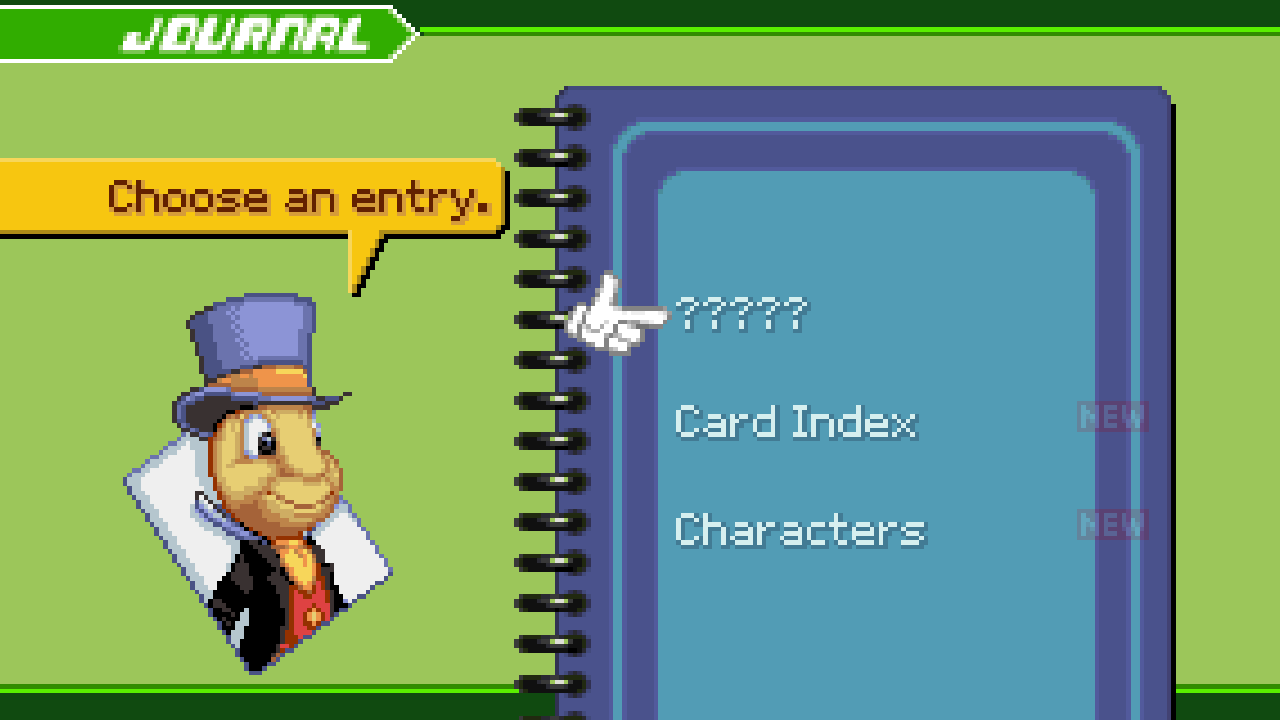
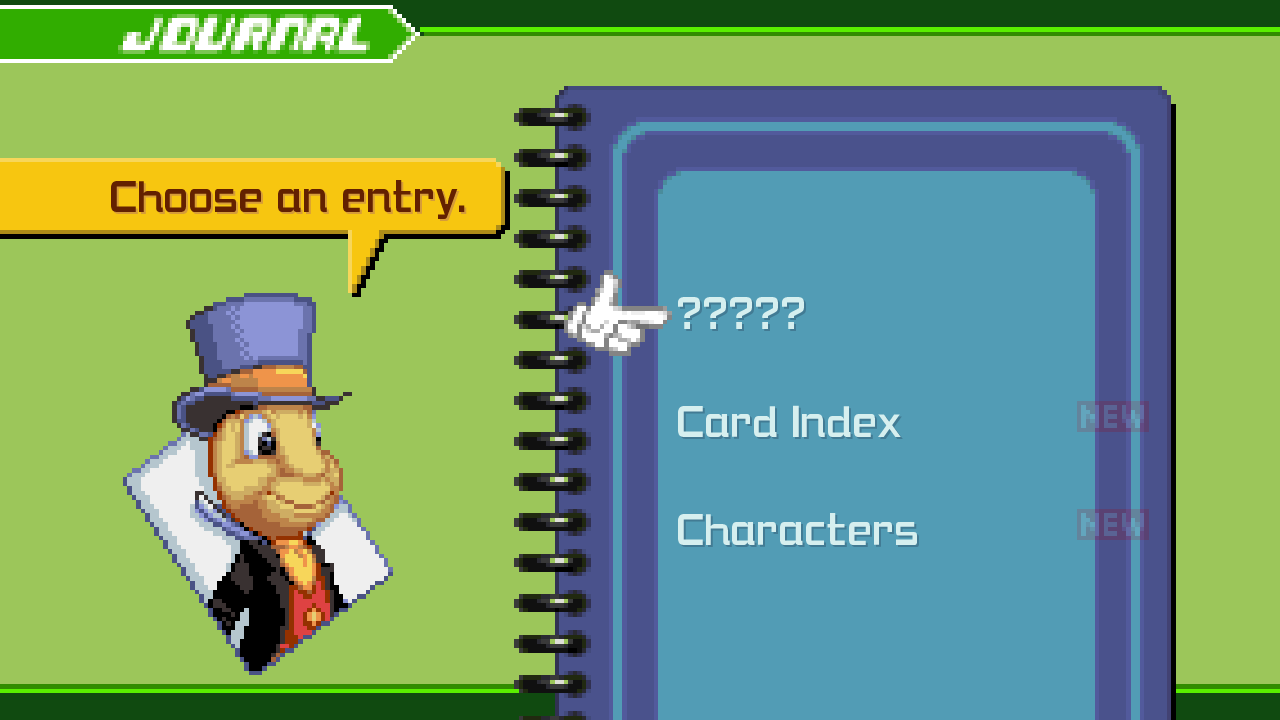
Verify supplied HD font faces and refresh README captures

diff --git a/port/tools/capture_hd_fonts.py b/port/tools/capture_hd_fonts.py
@@ -1,0 +1,39 @@
+"""Capture the actual menu/dialogue/subtitle faces in an isolated data folder."""
+import os
+from pathlib import Path
+import subprocess
+from datetime import datetime
+
+ROOT = Path(__file__).resolve().parents[2]
+import argparse
+parser = argparse.ArgumentParser(description=__doc__)
+parser.add_argument('--scenes', nargs='+', default=['deck', 'dialogue', 'subtitles'])
+args = parser.parse_args()
+work = ROOT / 'build/font-review' / datetime.now().strftime('%Y%m%d-%H%M%S')
+work.mkdir(parents=True)
+exe = ROOT / 'build/cx-eu/khcom.exe'
+for name, fixture, shots, end in (
+    ('deck', {'KHCOM_MODE': '300:room:10000,600:Mode_Deck'}, '800', 810),
+    ('status', {'KHCOM_MODE': '300:room:10000,600:mode_status'}, '800', 810),
+    ('journal', {'KHCOM_MODE': '300:room:10000,600:mode_jiminy'}, '800', 810),
+    ('worldcards', {'KHCOM_MODE': '300:room:10000,600:mode_worldinspect'}, '800', 810),
+    ('dialogue', {'KHCOM_MODE': '300:room:10000,600:mode_ms_top'}, '800,1000,1500', 1510),
+    ('subtitles', {'KHCOM_MOVIE': '1'}, '2700,2770,3330', 3340),
+):
+    if name not in args.scenes:
+        continue
+    data = work / name
+    data.mkdir()
+    # Use the package's bin/ layout with root assets via --data-dir.
+    import shutil
+    shutil.copytree(ROOT / 'port/assets/fonts', data / 'assets/fonts')
+    (data / 'kh_com.ini').write_text('config_version=2\nview_mode=4\nwindow_scale=4\nhd_text=1\nhd_hud=0\n')
+    env = {k: v for k, v in os.environ.items() if not k.startswith('KHCOM_')}
+    env.update(SDL_VIDEO_DRIVER='dummy', SDL_AUDIO_DRIVER='dummy', KHCOM_FAST='1',
+               KHCOM_OUTPUT_SHOT=shots, KHCOM_QUIT=str(end), **fixture)
+    subprocess.run([str(exe), '--data-dir', str(data), '--rom', str(ROOT / 'roms/B8CP.gba'),
+                    '--language', 'en'], cwd=data, env=env, check=True, timeout=120)
+    log = (data / 'kh_com.log').read_text(errors='replace')
+    selected = [line for line in log.splitlines() if 'HD text:' in line]
+    print(name, '\n'.join(selected))
+print(work)

diff --git a/port/src/port_hdtext.c b/port/src/port_hdtext.c
@@ -80,12 +80,14 @@ static void LoadCustomFont(void) {
 
         /* next to the executable, or in the data folder: the packaged game
            runs from bin/ with its assets at the root (--data-dir) */
-        SDL_snprintf(path, sizeof(path), "%s%s", base ? base : "", files[i]);
+        SDL_strlcpy(path, PortConfigPath(files[i]), sizeof(path));
         if (GetFileAttributesA(path) == INVALID_FILE_ATTRIBUTES)
-            SDL_strlcpy(path, PortConfigPath(files[i]), sizeof(path));
+            SDL_snprintf(path, sizeof(path), "%s%s", base ? base : "", files[i]);
         if (MultiByteToWideChar(CP_UTF8, 0, path, -1, wpath, 1024) > 0 && AddFontResourceExW(wpath, FR_PRIVATE, NULL) > 0) {
             sFace[i] = faces[i];
             PortLog("HD text: font %s", path);
+        } else {
+            PortLog("HD text: unable to load %s; using fallback", path);
         }
     }
 }
@@ -172,6 +174,14 @@ static HdFont* FontForScale(float scale, int style) {
     {
         const WCHAR* face = sFace[style == 2 ? 0 : style];
         f->font = FontWithCap(face, f->cap, scale, face[0] == L'S' ? FW_SEMIBOLD : FW_NORMAL);
+        {
+            WCHAR selected[128];
+            char actual[256];
+            SelectObject(sDc, f->font);
+            if (GetTextFaceW(sDc, 128, selected) > 0 &&
+                WideCharToMultiByte(CP_UTF8, 0, selected, -1, actual, sizeof(actual), NULL, NULL) > 0)
+                PortLog("HD text: selected style=%d face=%s", style, actual);
+        }
     }
     f->fallback = sFace[style == 2 ? 0 : style][0] == L'S' ? f->font
                                           : FontWithCap(style ? L"Comic Sans MS" : L"Segoe UI", f->cap, scale,

diff --git a/README.md b/README.md
@@ -7,7 +7,7 @@ A native PC port of the Game Boy Advance game: the decompiled code runs as
 a real Windows program, with its own renderer, audio and launcher, in 16:9
 and at the cartridge's exact speed (59.7275 Hz).
 
-**Latest release: [v0.8](https://github.com/MatyMeatBoy/ReKHCom/releases/latest)**
+**Current prerelease: [v0.8](https://github.com/MatyMeatBoy/ReKHCom/releases/tag/v0.8)**
 (Windows x86). Works with the **European, US and Japanese** cartridges, in all
 five European languages, English (US) and Japanese.
 
@@ -31,7 +31,12 @@ five European languages, English (US) and Japanese.
 
 ### Pixel text or HD text
 
+HD menus and dialogue use **KHMenu.otf**; movie subtitles use
+**ComicHearts.otf**. Both fonts are included in the Windows package.
+
 <p align="center"><img src="docs/screenshots/moogle_px.png" width="49%"> <img src="docs/screenshots/moogle_hd.png" width="49%"></p>
+
+<p align="center"><img src="docs/screenshots/subtitles_hd.png" width="70%"></p>
 
 ### Every language of every cartridge
 

diff --git a/port/assets/hd-hud/drafts/README.md b/port/assets/hd-hud/drafts/README.md
@@ -1,0 +1,11 @@
+# Drafts — not loaded or packaged
+
+The Sora normal portrait is a generated reference only. Its isolated placement
+was rejected by the user: head and surround must be composed with the complete
+player HUD before integration. Do not count it as integrated portrait coverage.
+Player HP frames, all bars, rim, Sora/Riku expressions and native anchors remain
+pending in HUD_HD_INVENTARIO.md.
+
+Generated from the local original portrait and battle reference; second pass
+preserved the face/hair/rim and cleaned the transparent exterior with padding.
+No runtime path references this draft.
